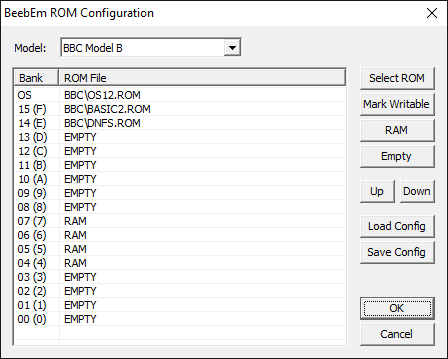
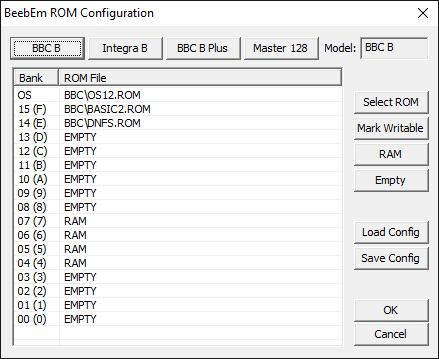
Added dialog box images to help documentation

diff --git a/Help/teletext.html b/Help/teletext.html
@@ -74,7 +74,7 @@
       </p>
 
       <figure>
-        <img src="teletext-files.png" width="520" height="229">
+        <img src="teletext-files.png" alt="Beebem Teletext Adapter dialog box" width="520" height="229">
       </figure>
 
       <h2>Packet Server</h2>
@@ -94,7 +94,7 @@
       </p>
 
       <figure>
-        <img src="teletext-ip.png" width="520" height="229">
+        <img src="teletext-ip.png" alt="Beebem Teletext Adapter dialog box" width="520" height="229">
       </figure>
     </main>
 

diff --git a/Help/disks.html b/Help/disks.html
@@ -156,6 +156,10 @@
         options to export and import files from/to a disc image file.
       </p>
 
+      <figure>
+        <img src="export.png" alt="BeebEm Disc Export dialog box" width="400" height="515">
+      </figure>
+
       <p>
         When importing and exporting files BeebEm will look for or create an
         additional file with a <span class="file">.inf</span> extension to

diff --git a/Help/roms.html b/Help/roms.html
@@ -71,6 +71,10 @@
         class="file">Roms.cfg</span> file or another file.
       </p>
 
+      <figure>
+        <img src="roms.png" alt="BeebEm ROM Configuration dialog box" width="439" height="359">
+      </figure>
+
       <p>
         In Master 128 mode some ROMS may be "unplugged". This is a feature of
         the Master MOS that allows ROMs to be ignored. The ROM configuration

diff --git a/Help/tapes.html b/Help/tapes.html
@@ -128,6 +128,10 @@
         need to move the tape position back to retry the block.
       </p>
 
+      <figure>
+        <img src="tape.png" alt="BeebEm Tape Control dialog box" width="379" height="528">
+      </figure>
+
       <h2>Writing to Tape Images</h2>
 
       <p>

diff --git a/Help/links.html b/Help/links.html
@@ -46,7 +46,7 @@
       </p>
 
       <figure>
-        <img src="links.png" alt="Beeb Keyboard" width="310" height="253">
+        <img src="links.png" alt="BeebEm Keyboard Links dialog box" width="310" height="253">
       </figure>
 
       <h2>Default filing system</h2>

diff --git a/Help/serial.html b/Help/serial.html
@@ -57,7 +57,7 @@
       </p>
 
       <figure>
-        <img src="rs423.png" width="331" height="292">
+        <img src="rs423.png" alt="BeebEm RS423 dialog box" width="331" height="292">
       </figure>
 
       <h2>Serial over IP</h2>
